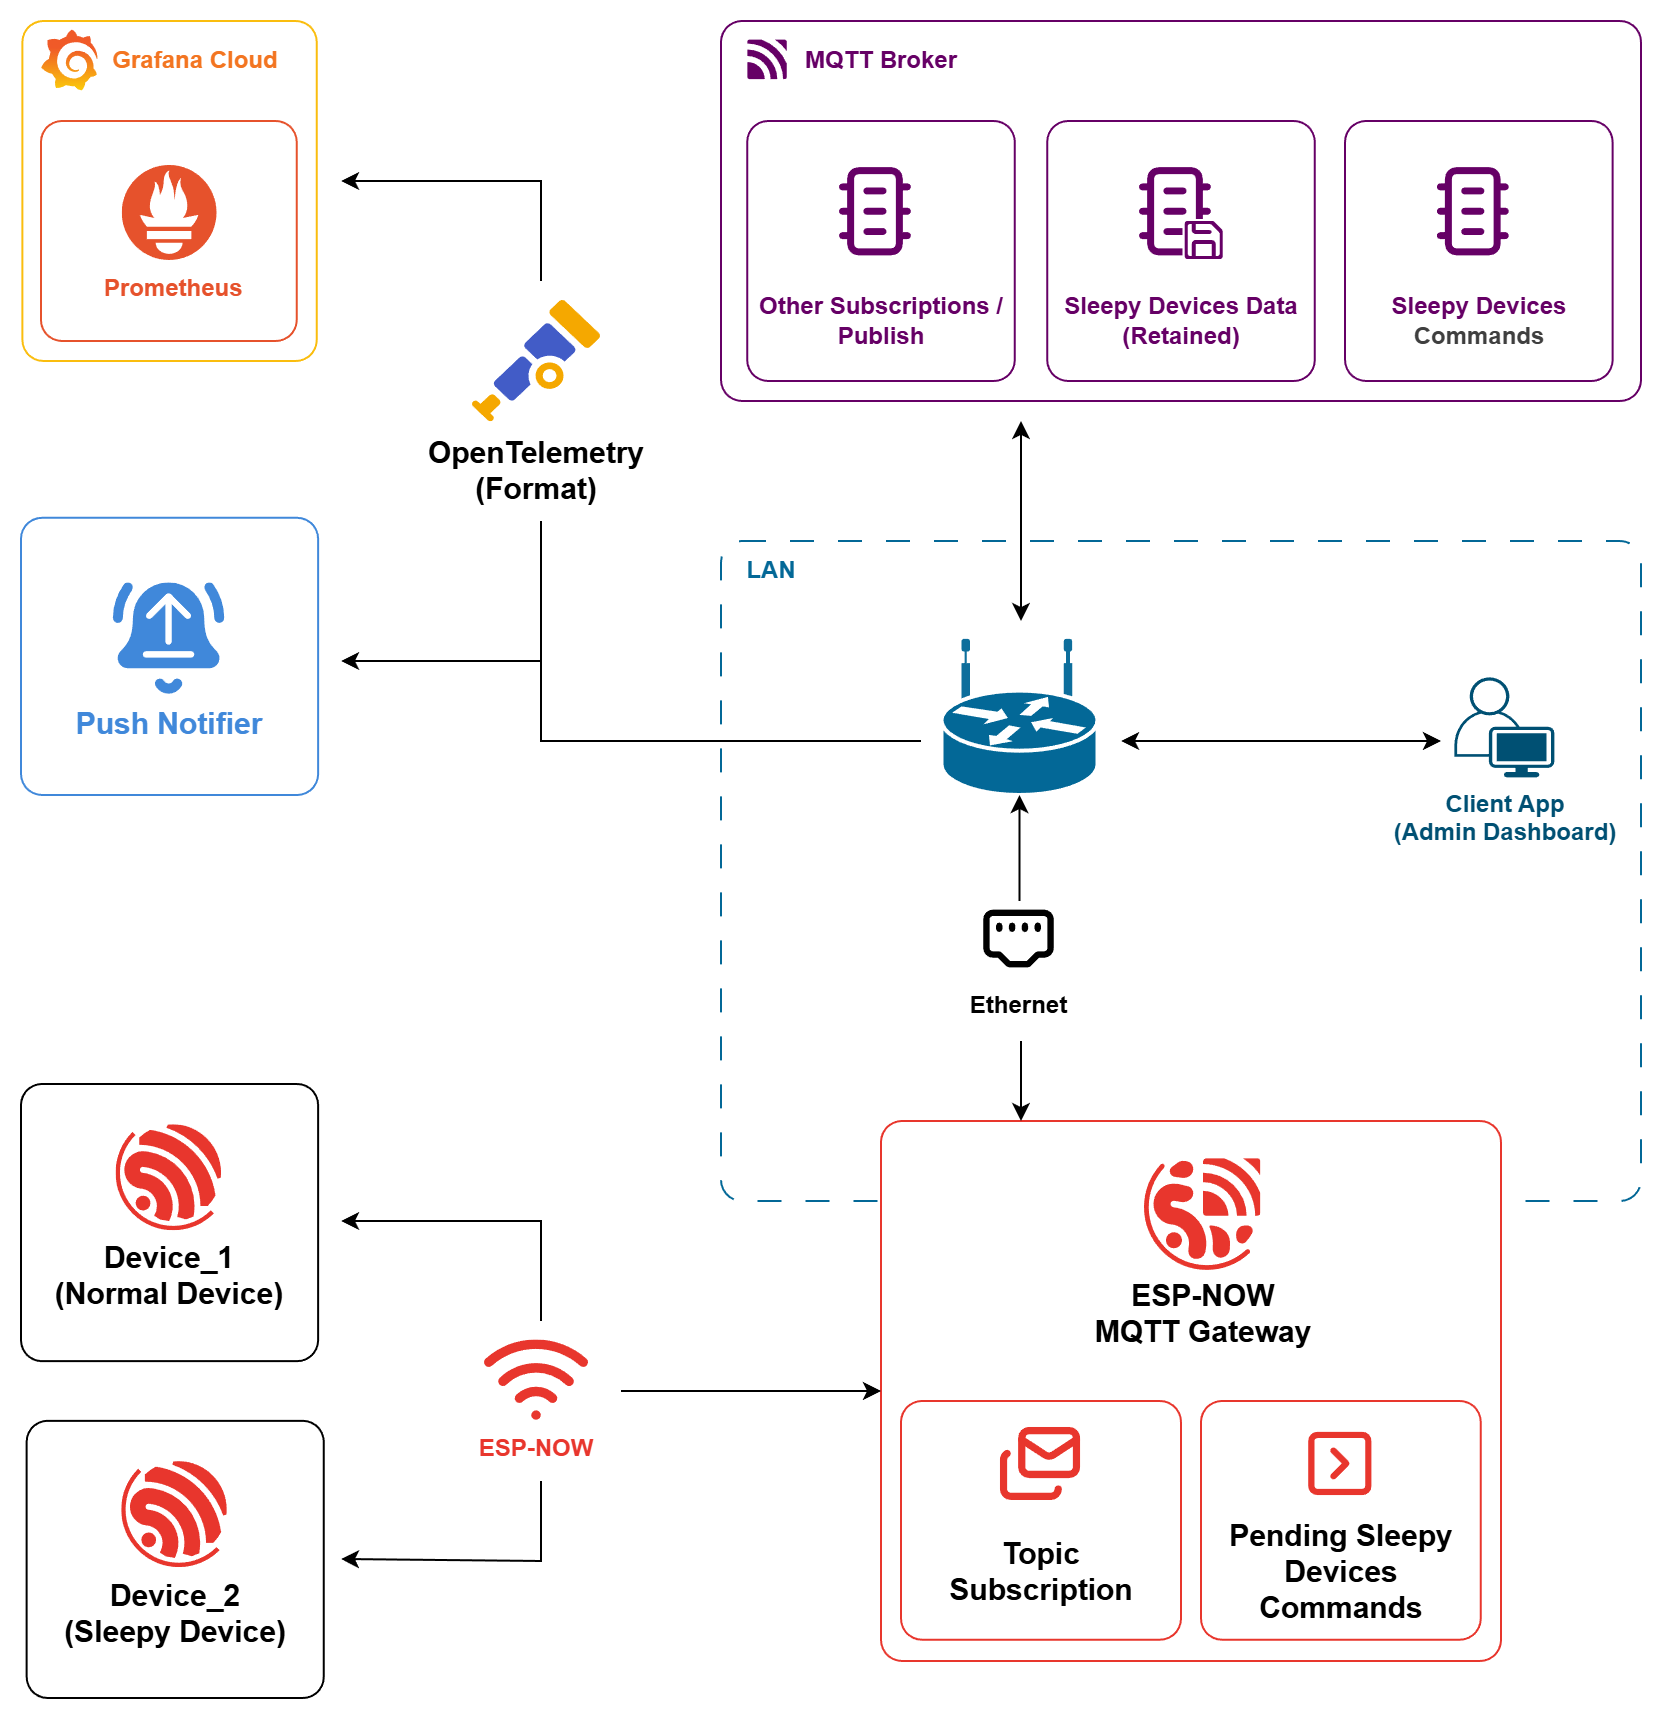
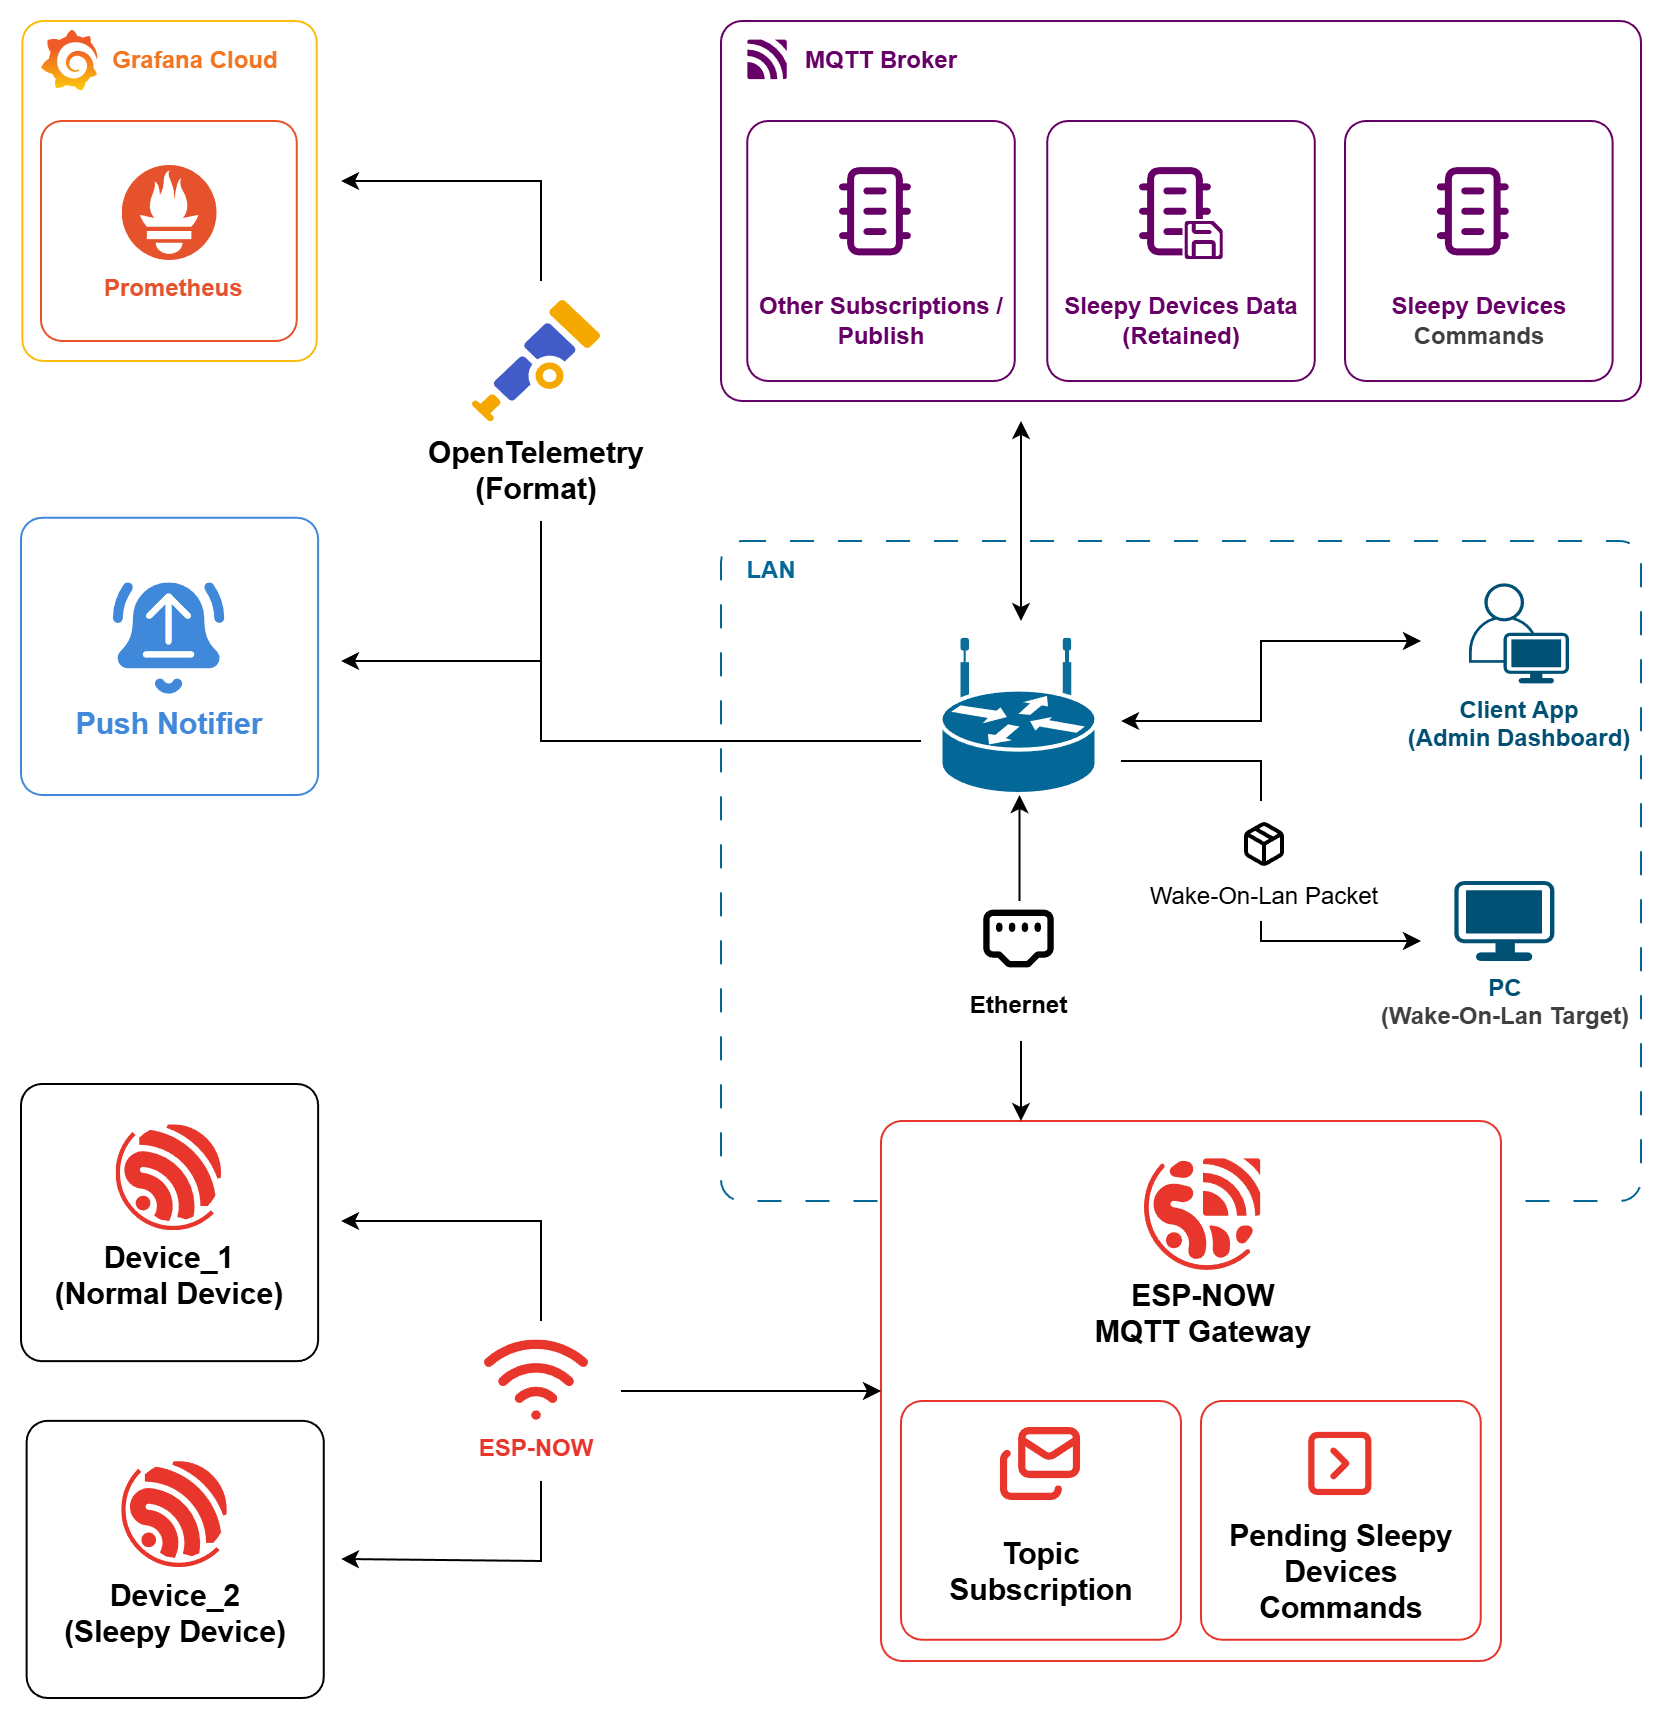
update

diff --git a/README.md b/README.md
@@ -71,6 +71,7 @@ A Gateway that bridges between MQTT and ESP-NOW
 - Devices can send notifications via the gateway using [PushNotifier](https://github.com/devlotfi/push-notifier)
 - For a UI Dashboard you can use [EspCommander](https://github.com/devlotfi/esp-commander)
 - Devices can save readings into grafana cloud prometheus instance using (OpenTelemetry) format
+- Devices can send WOL (Wake-On-Lan) packets for a specific MAC address
 - To configure the gateway use the Admin Dashboard Web App
 
 <img src="https://raw.githubusercontent.com/devlotfi/esp-now-mqtt-gateway/master/github-assets/working-diagram.png">